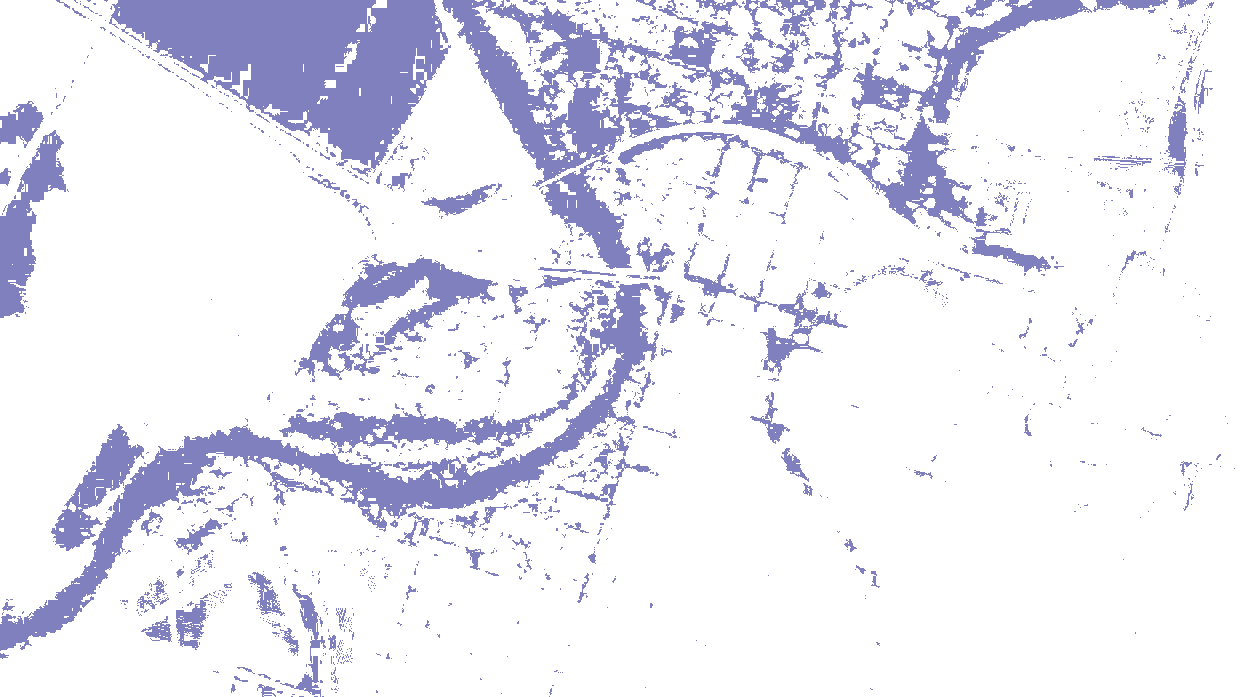
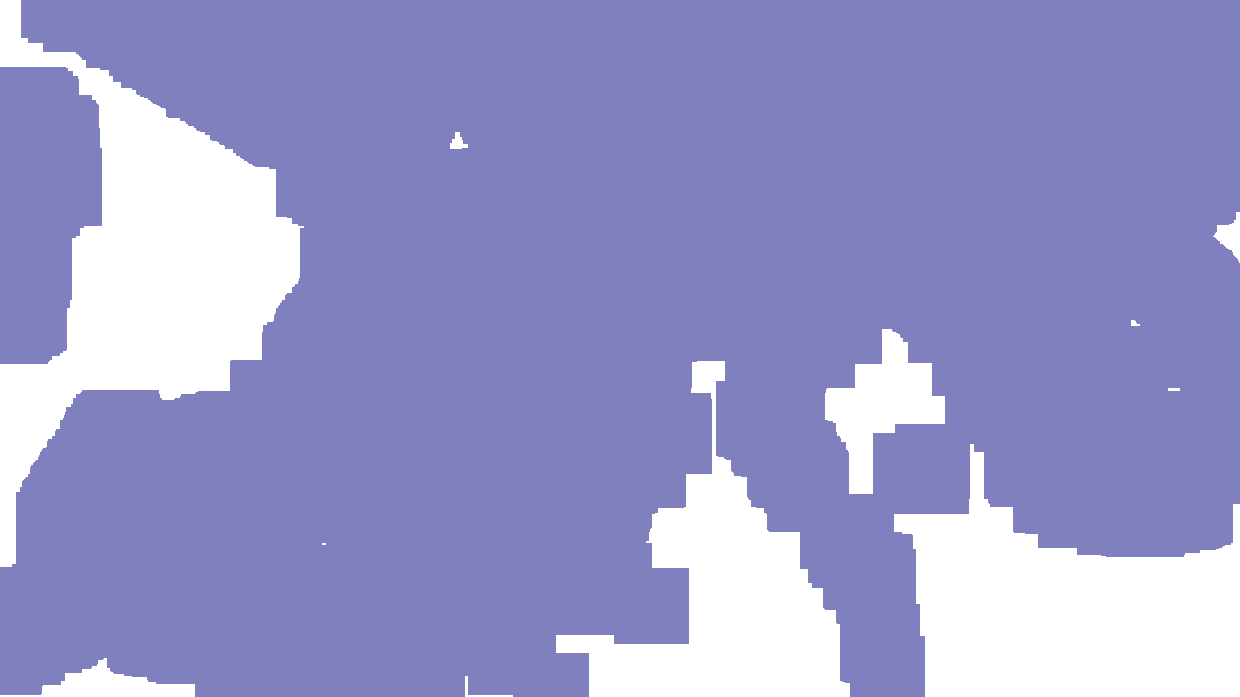
Applied morphological transformations to flood map overlay

diff --git a/data/test.py b/data/test.py
@@ -1,0 +1,45 @@
+import numpy as np
+import cv2
+
+def hsv2gray2bin(img):
+    bgr = cv2.cvtColor(img, cv2.COLOR_HSV2BGR)
+    return cv2.threshold(cv2.cvtColor(bgr, cv2.COLOR_BGR2GRAY), 0, 255, cv2.THRESH_BINARY+cv2.THRESH_OTSU)[1]
+    
+
+before = cv2.cvtColor(cv2.imread("harvey-wharton-before.jpg"), cv2.COLOR_BGR2HSV)
+after = cv2.cvtColor(cv2.imread("harvey-wharton-after.jpg"), cv2.COLOR_BGR2HSV, -1)
+#after = cv2.imread("harvey-wharton-after.jpg")
+
+# diff = cv2.absdiff(before, after)
+# hsvDiff = cv2.cvtColor(diff, cv2.COLOR_BGR2HSV)
+
+water_lower = np.array([0,35,90])
+water_upper = np.array([10,255,255])
+
+mask = cv2.inRange(after, water_lower, water_upper)
+
+res = hsv2gray2bin(cv2.bitwise_and(after, after, mask=mask))
+
+res = cv2.erode(res, np.ones((3,3), np.uint8))
+
+res = cv2.dilate(res, np.ones((25,25), np.uint8))
+for _ in range(25):
+    res = cv2.dilate(res, np.ones((3,3), np.uint8))
+
+# for _ in range(50):
+#     res = cv2.erode(res, np.ones((3,3), np.uint8))
+
+# res = cv2.erode(res, np.ones((20,20), np.uint8))
+
+cv2.imwrite("result.png", cv2.GaussianBlur(res, (3,3),0))
+
+overlay = np.zeros((after.shape[0], after.shape[1], 4), np.uint8)
+for h in range(res.shape[0]):
+    for w in range(res.shape[1]):
+        if res[h,w] == 0:
+            overlay[h,w] = (0,0,0,0)
+        else:
+            overlay[h,w] = (127,0,0,127)
+
+cv2.imwrite("overlay.png", overlay)
+
